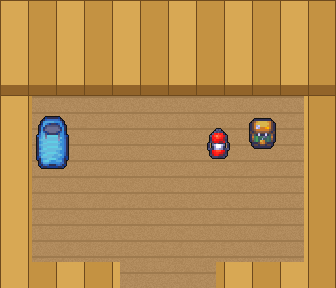
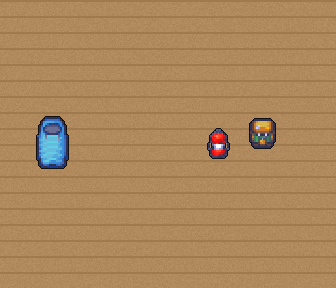
⛺ the tent loses its wooden walls — and house 3's parquet doubles
Trym's planner round 2: the tent room is just the groundsheet now,
floating on the dark (colliders shrink to an invisible 16px frame,
door gap intact) — more tenty. House 3's woven parquet tile was
fine-grained (16 blocks per 48px tile, unreadable at room scale);
the floor now renders at 2x so the weave reads as planks, matching
house 2's scale. Not a game-scale bug — the pattern inside the
tile was simply too dense.

diff --git a/src/scripts/homestead-geo.js b/src/scripts/homestead-geo.js
@@ -18,4 +18,4 @@ export const SIGN = { x: 1010, y: 850, w: 31, h: 31 };
 export const OB_RECTS = [[141, 868, 229, 890]];
 export const OVERLAYS = [];
 export const BIRDS = ["cardinal", "bluejay", "chickadee", "redrobin", "whitedove", "magpie"];
-export const INTERIORS = {"2": {"img": "in-wood2.png", "box": [588, 300, 624, 432], "spawn": [900, 676], "exit": [854, 714, 946, 732], "cols": [[588, 300, 1212, 400], [588, 300, 602, 732], [1198, 300, 1212, 732], [588, 718, 840, 732], [960, 718, 1212, 732]]}, "3": {"img": "in-wood3.png", "box": [468, 260, 864, 576], "spawn": [900, 780], "exit": [854, 818, 946, 836], "cols": [[468, 260, 1332, 360], [468, 260, 482, 836], [1318, 260, 1332, 836], [468, 822, 840, 836], [960, 822, 1332, 836]]}, "1": {"img": "in-tent.png", "box": [732, 360, 336, 288], "spawn": [900, 590], "exit": [856, 626, 944, 646], "cols": [[732, 360, 1068, 460], [732, 360, 768, 648], [1032, 360, 1068, 648], [732, 624, 852, 648], [948, 624, 1068, 648], [772, 472, 828, 560], [970, 472, 1024, 532]]}};
+export const INTERIORS = {"2": {"img": "in-wood2.png", "box": [588, 300, 624, 432], "spawn": [900, 676], "exit": [854, 714, 946, 732], "cols": [[588, 300, 1212, 400], [588, 300, 602, 732], [1198, 300, 1212, 732], [588, 718, 840, 732], [960, 718, 1212, 732]]}, "3": {"img": "in-wood3.png", "box": [468, 260, 864, 576], "spawn": [900, 780], "exit": [854, 818, 946, 836], "cols": [[468, 260, 1332, 360], [468, 260, 482, 836], [1318, 260, 1332, 836], [468, 822, 840, 836], [960, 822, 1332, 836]]}, "1": {"img": "in-tent.png", "box": [732, 360, 336, 288], "spawn": [900, 590], "exit": [856, 626, 944, 646], "cols": [[732, 360, 1068, 376], [732, 360, 748, 648], [1052, 360, 1068, 648], [732, 632, 852, 648], [948, 632, 1068, 648], [772, 472, 828, 560], [970, 472, 1024, 532]]}};

diff --git a/tools/build-homestead-scene.py b/tools/build-homestead-scene.py
@@ -898,12 +898,14 @@ if os.path.isdir(RB):
         return (_fl.crop((fx, fy, fx + 48, fy + 48)),
                 _wa.crop((wx2, wy2, wx2 + 48, wy2 + 96)))
 
-    def build_wood_room(tier, tw, th, at, FTILE, WSEG):
+    def build_wood_room(tier, tw, th, at, FTILE, WSEG, fscale=1):
         Wp, Hp = tw * 48, th * 48
         room = Image.new('RGBA', (Wp, Hp), (0, 0, 0, 0))
-        for j in range(th):
-            for i in range(tw):
-                room.alpha_composite(FTILE, (i * 48, j * 48))
+        step = 48 * fscale
+        ft = FTILE if fscale == 1 else FTILE.resize((step, step), Image.NEAREST)
+        for j in range(0, Hp, step):
+            for i in range(0, Wp, step):
+                room.alpha_composite(ft, (i, j))
         for i in range(tw):
             room.alpha_composite(WSEG, (i * 48, 0))
         dr2 = ImageDraw.Draw(room)
@@ -934,7 +936,7 @@ if os.path.isdir(RB):
     # 🎼 level 2 = the music-room look: pale diagonal planks + grey wall (Trym img 2)
     build_wood_room(2, 13, 9, (588, 300), *room_tiles(48, 1440, 48, 192))
     # 🏨 level 3 = the lobby look: woven tan floor + warm wood wall (Trym img 3)
-    build_wood_room(3, 18, 12, (468, 260), *room_tiles(48, 960, 48, 1056))
+    build_wood_room(3, 18, 12, (468, 260), *room_tiles(48, 960, 48, 1056), fscale=2)
 
 
 # ---- 🍌 THE BANANA PHONE — drawn UI art (Trym commissioned: "needs to be
@@ -981,31 +983,16 @@ build_phone_icon()
 TENT_W, TENT_H = 336, 288
 tent_room = Image.new('RGBA', (TENT_W, TENT_H), (0, 0, 0, 0))
 tp2 = tent_room.load()
-C_DARK = (146, 100, 42, 255)
-C_MID = (196, 146, 66, 255)
-C_LIT = (216, 168, 84, 255)
-C_SEAM = (110, 74, 30, 255)
 C_FLOOR = (176, 138, 92, 255)
 C_FLOORD = (158, 122, 78, 255)
 trng = random.Random(7)
 for y in range(TENT_H):
     for x in range(TENT_W):
-        wall = y < 96 or x < 32 or x >= TENT_W - 32 or y >= TENT_H - 26
-        door = y >= TENT_H - 26 and 120 <= x < 216
-        if wall and not door:
-            panel = (x // 28) % 2
-            c = C_MID if panel else C_LIT
-            if y < 96 and y > 84:
-                c = C_DARK                     # the fold line where roof meets floor
-            if x % 28 == 0 or y in (0, 95) or x in (0, TENT_W - 1):
-                c = C_SEAM
-            tp2[x, y] = c
-        else:
-            j = trng.randrange(-6, 7)
-            c = (C_FLOOR[0] + j, C_FLOOR[1] + j, C_FLOOR[2] + j, 255)
-            if (y % 16) < 2:
-                c = C_FLOORD
-            tp2[x, y] = c
+        j = trng.randrange(-6, 7)
+        c = (C_FLOOR[0] + j, C_FLOOR[1] + j, C_FLOOR[2] + j, 255)
+        if (y % 16) < 2:
+            c = C_FLOORD
+        tp2[x, y] = c
 for prop_name, px2, py2, sc in (('ME_Singles_Camping_48x48_Sleeping_Bag_1.png', 52, 116, 2 / 3.0),
                                 ('ME_Singles_Camping_48x48_Backpack_1.png', 262, 118, 2 / 3.0),
                                 ('ME_Singles_Camping_48x48_Lantern_1.png', 218, 128, 2 / 3.0)):
@@ -1023,8 +1010,8 @@ INTERIORS_OUT[1] = {
     'spawn': [TENT_AT[0] + 168, TENT_AT[1] + 230],
     'exit': [TENT_AT[0] + 124, TENT_AT[1] + TENT_H - 22, TENT_AT[0] + 212, TENT_AT[1] + TENT_H - 2],
     'cols': [[TENT_AT[0] + a, TENT_AT[1] + b, TENT_AT[0] + c, TENT_AT[1] + d] for a, b, c, d in (
-        (0, 0, TENT_W, 100), (0, 0, 36, TENT_H), (TENT_W - 36, 0, TENT_W, TENT_H),
-        (0, TENT_H - 24, 120, TENT_H), (216, TENT_H - 24, TENT_W, TENT_H),
+        (0, 0, TENT_W, 16), (0, 0, 16, TENT_H), (TENT_W - 16, 0, TENT_W, TENT_H),
+        (0, TENT_H - 16, 120, TENT_H), (216, TENT_H - 16, TENT_W, TENT_H),
         (40, 112, 96, 200), (238, 112, 292, 172),
     )],
 }
